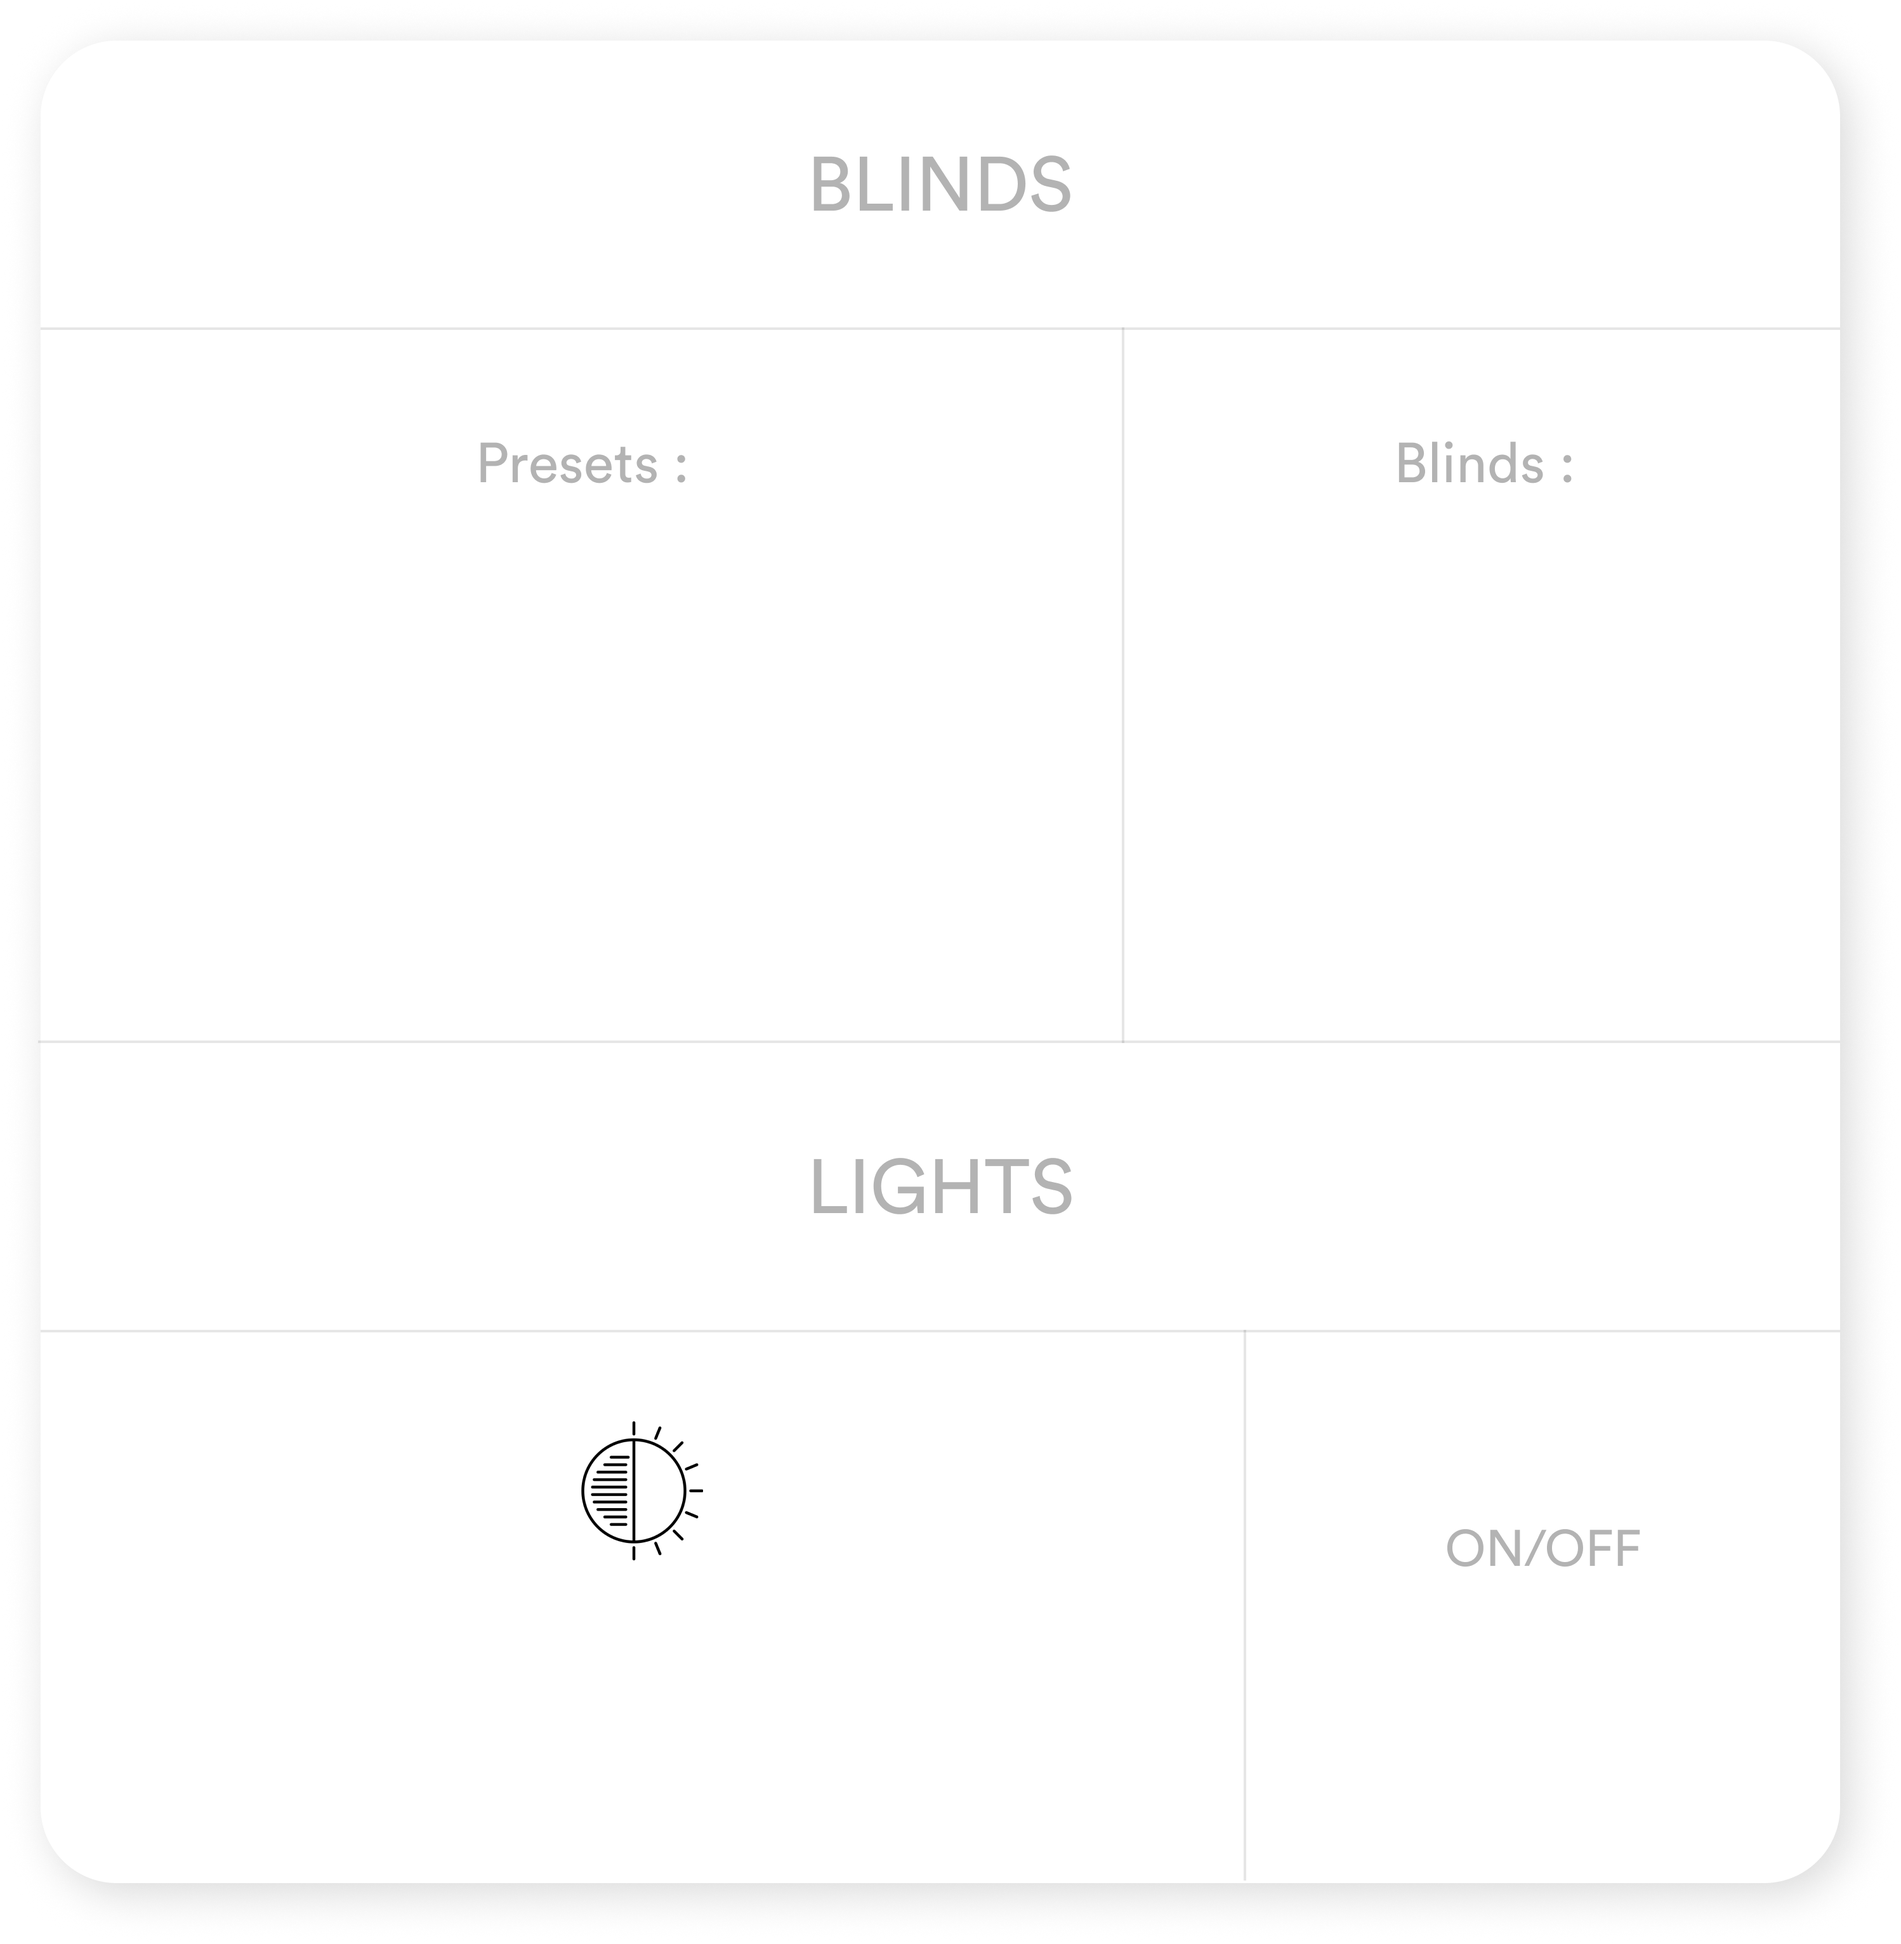
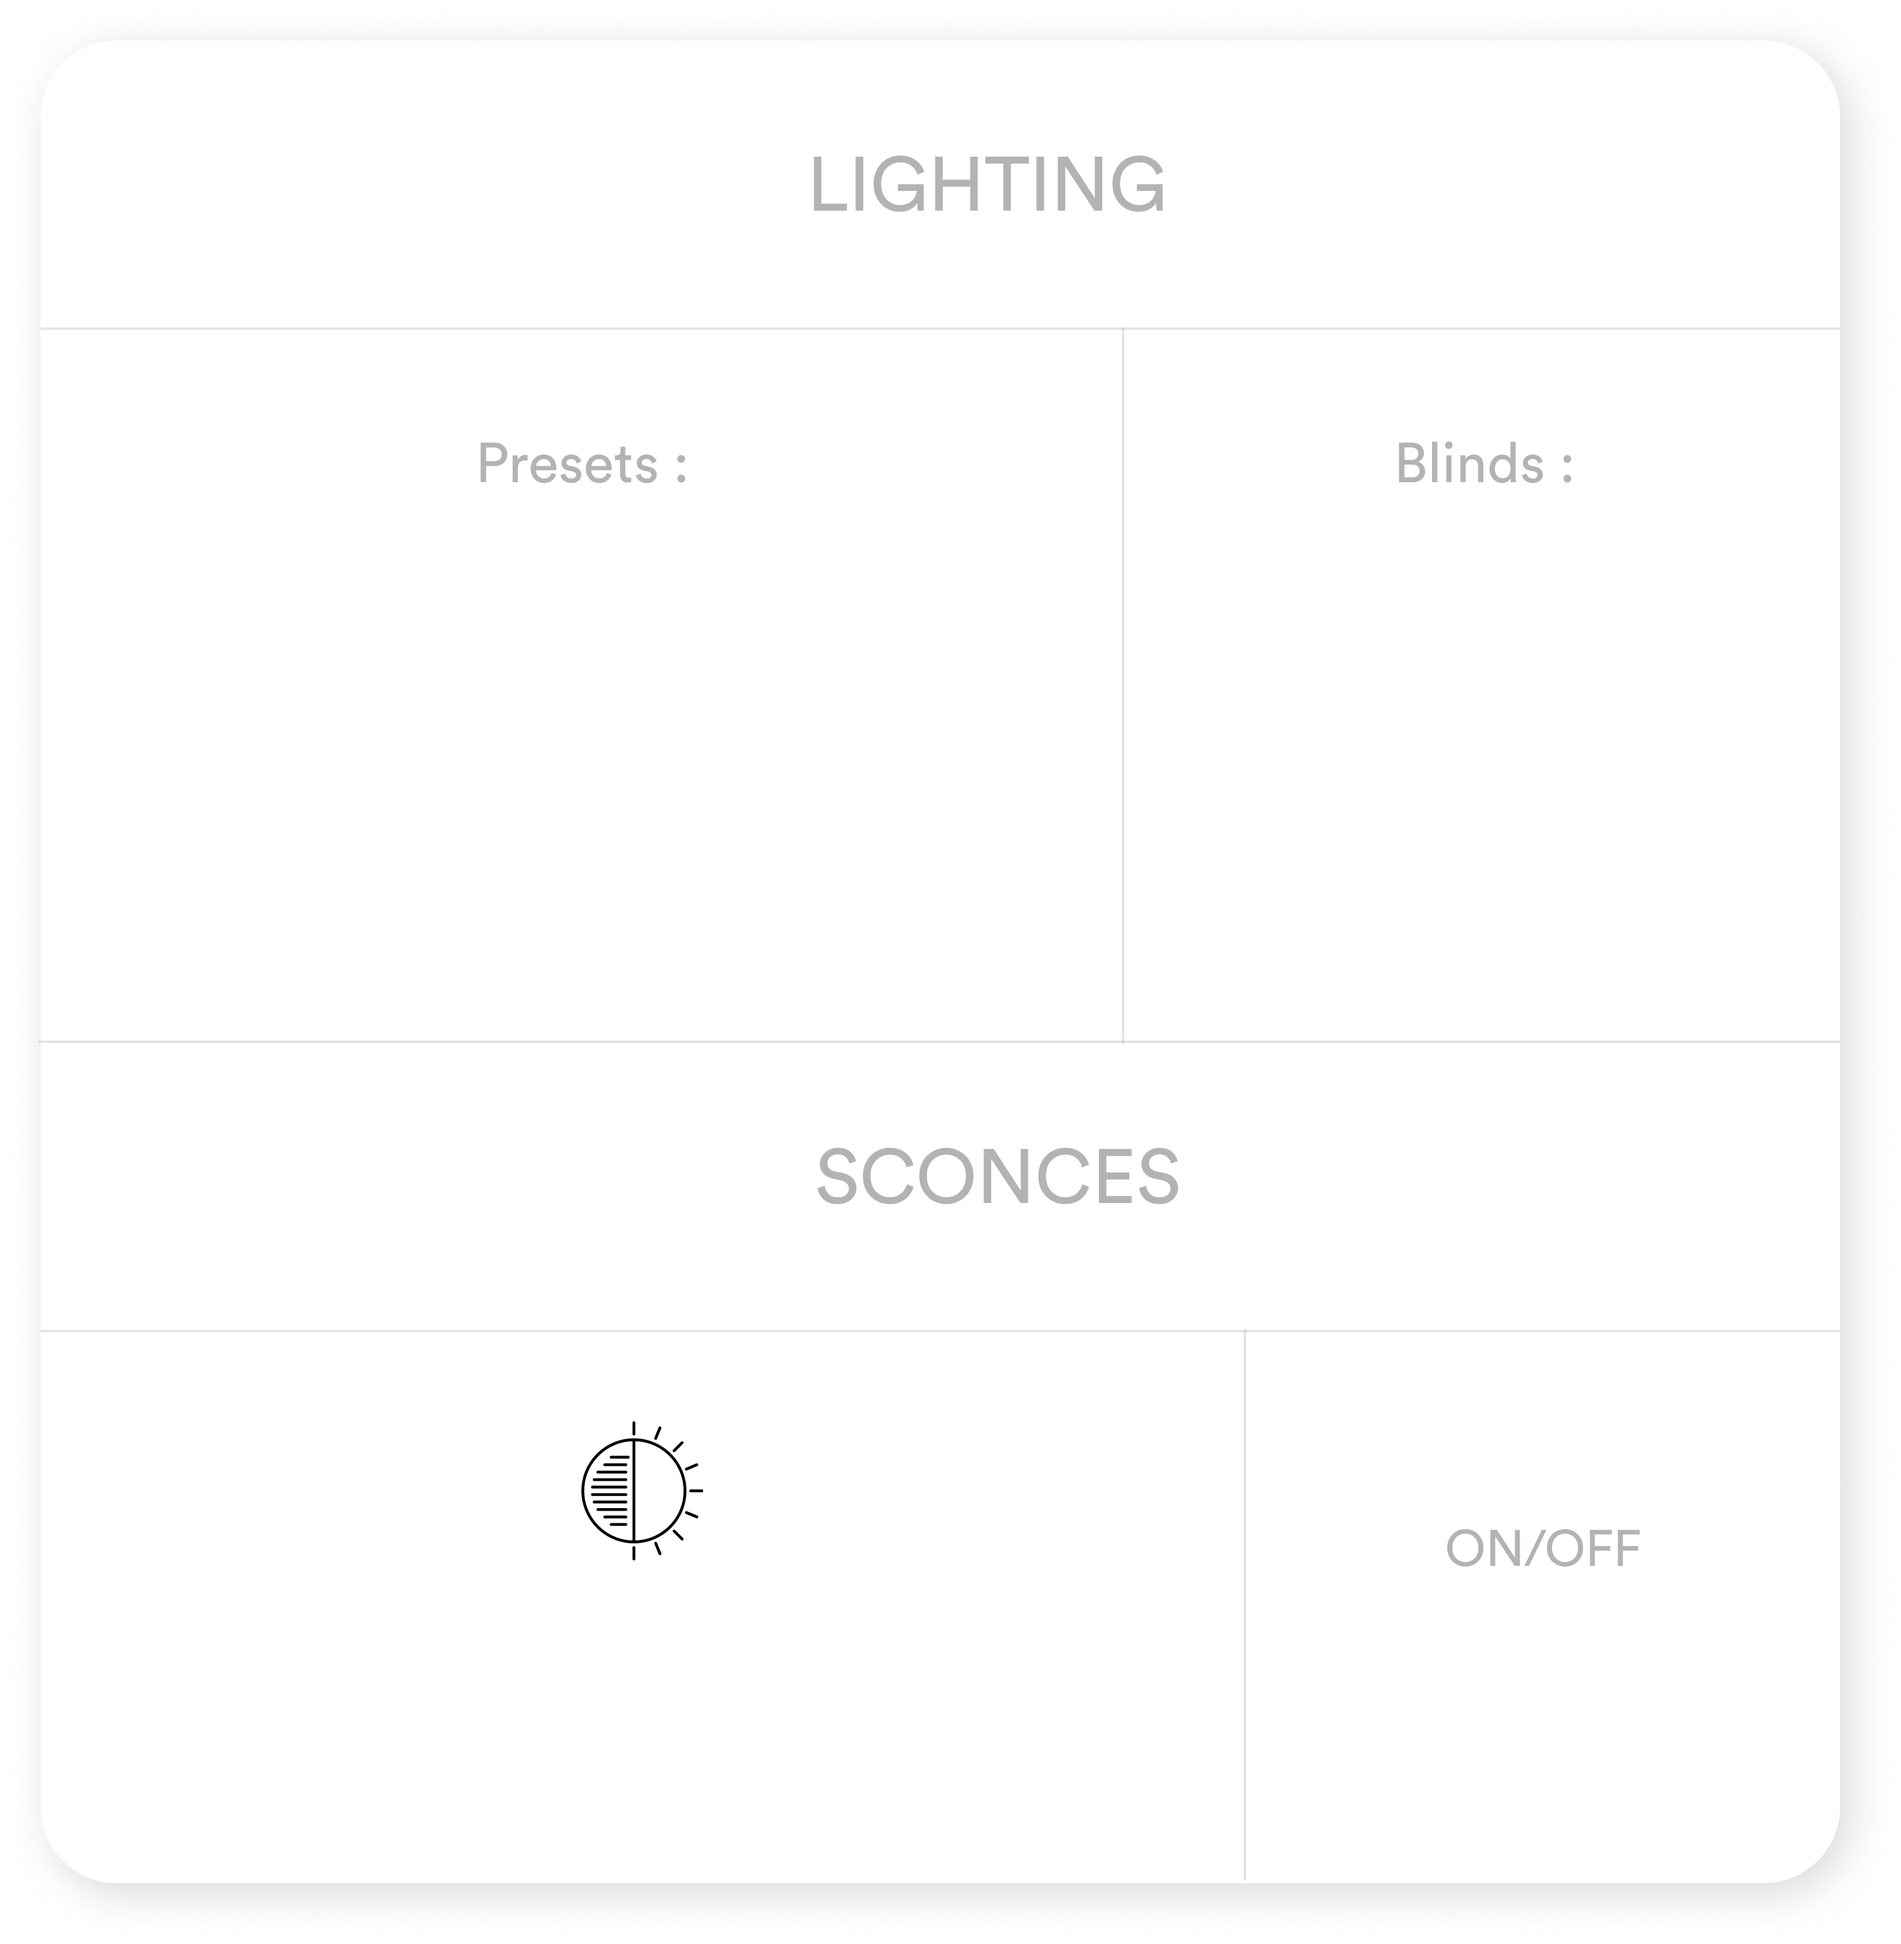
change lighting page and add more text to reboot confirmation

Changed region(s): [[0.4346, 0.062, 0.6208, 0.124], [0.4035, 0.5891, 0.6208, 0.6201]]

diff --git a/src/App.js b/src/App.js
@@ -30,14 +30,22 @@ function App() {
     share: true,
     filter: () => false,
     retryOnError: true,
-    shouldReconnect: () => true
+    shouldReconnect: () => true,
+    reconnectAttempts: 99999,
+    //attemptNumber will be 0 the first time it attempts to reconnect, so this equation results in a reconnect pattern of 1 second, 2 seconds, 4 seconds, 8 seconds, and then caps at 10 seconds until the maximum number of attempts is reached
+    reconnectInterval: (attemptNumber) =>
+      Math.min(Math.pow(2, attemptNumber) * 1000, 10000)
   });
 
   // Second invocation to destructure sendMessage and lastJsonMessage.
   const { sendMessage, lastJsonMessage } = useWebSocket(WS_URL, {
     share: true,
     retryOnError: true,
-    shouldReconnect: () => true
+    shouldReconnect: () => true,
+    reconnectAttempts: 99999,
+    //attemptNumber will be 0 the first time it attempts to reconnect, so this equation results in a reconnect pattern of 1 second, 2 seconds, 4 seconds, 8 seconds, and then caps at 10 seconds until the maximum number of attempts is reached
+    reconnectInterval: (attemptNumber) =>
+      Math.min(Math.pow(2, attemptNumber) * 1000, 10000)
   });
 
   //////////SWIPER/////////
@@ -217,12 +225,13 @@ function App() {
   const handleReboot = () => {
     confirmAlert({
       title: 'Confirm to reboot',
-      message: 'Are you sure you want to reboot the system?',
+      message: 'Are you sure you want to reboot the whole system? After confirming please wait 3 minutes for the system to fully reboot.',
       buttons: [
         {
           label: 'Yes',
           onClick: () => {
             sendMessage(JSON.stringify({ action: 'reboot' }));
+
           },
         },
         {
@@ -582,6 +591,7 @@ function App() {
               <button className="btnimg" onClick={e => { changeExperience('forest'); setExperience('forest'); }}>
                 <img className="img" alt="Element RAIN FOREST" src={require('./assets/RAINFOREST.png')} />
               </button>
+              {/* <div className='text-wrapper' style="float:bottom;">RAIN FOREST</div> */}
             </div>
 
             <div className="element-OCEAN">
@@ -788,22 +798,22 @@ function App() {
                       </div>
                       {source === 2 ? <div className="rectangle-5" /> : null}
                       <div className="rectangle-5btn" onClick={e => { setSource((prevSource) => 2); changeSource(2) }}>
-                        <div className="text-wrapper-2">Spotify</div>
+                        <div className="text-wrapper-2">Sonos</div>
                         <img className="line-bottom" alt="Line" src={require('./assets/Line4.png')} />
                       </div>
                       {source === 3 ? <div className="rectangle-6" /> : null}
                       <div className="rectangle-6btn" onClick={e => { setSource((prevSource) => 3); changeSource(3) }}>
-                        <div className="text-wrapper-2">Sonos</div>
+                        <div className="text-wrapper-2">XLR Stereo</div>
                         <img className="line-bottom" alt="Line" src={require('./assets/Line4.png')} />
                       </div>
                       {source === 4 ? <div className="rectangle-7" /> : null}
                       <div className="rectangle-7btn" onClick={e => { setSource((prevSource) => 4); changeSource(4) }}>
-                        <div className="text-wrapper-2">XLR Stereo</div>
+                        <div className="text-wrapper-2">XLR Ambisonic</div>
                         <img className="line-bottom" alt="Line" src={require('./assets/Line4.png')} />
                       </div>
                       {source === 5 ? <div className="rectangle-8" /> : null}
                       <div className="rectangle-8btn" onClick={e => { setSource((prevSource) => 5); changeSource(5) }}>
-                        <div className="text-wrapper-2">XLR Ambisonic</div>
+                        <div className="text-wrapper-2"></div>
                       </div>
                     </div>
 
@@ -1029,7 +1039,7 @@ function App() {
 
         </SwiperSlide>
 
-      </Swiper>
+      </Swiper >
     </>
   );
 
